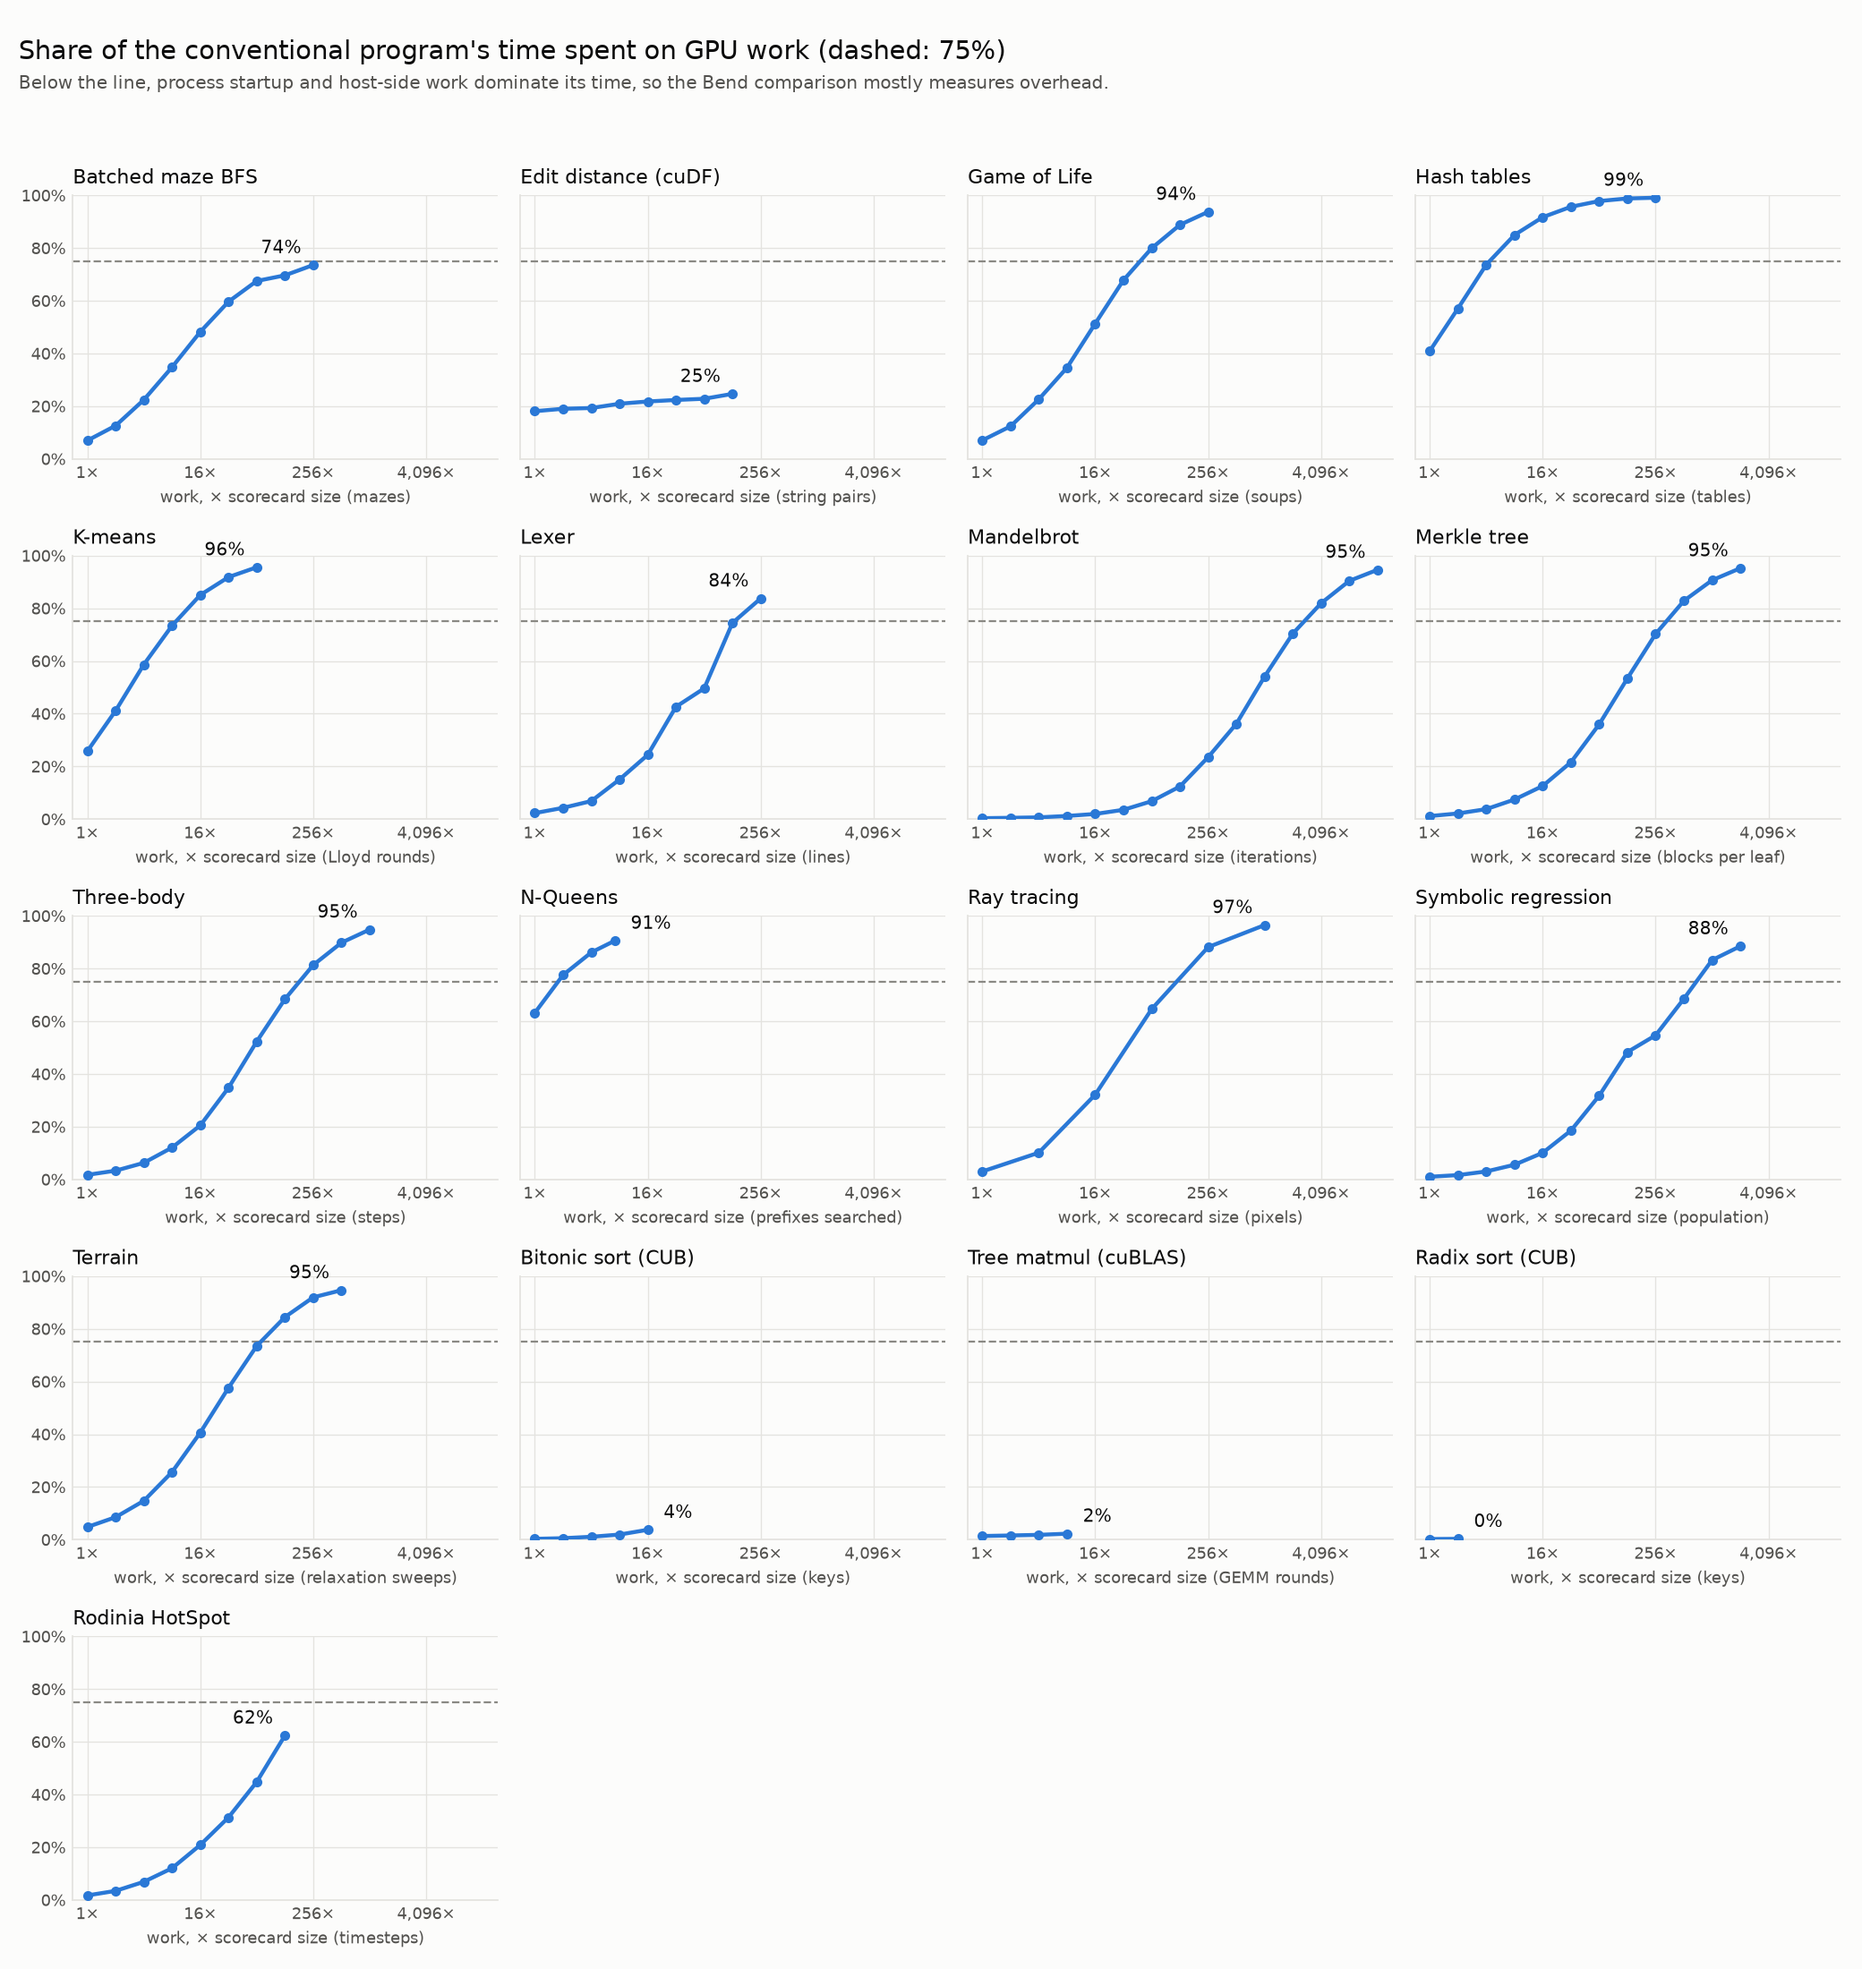
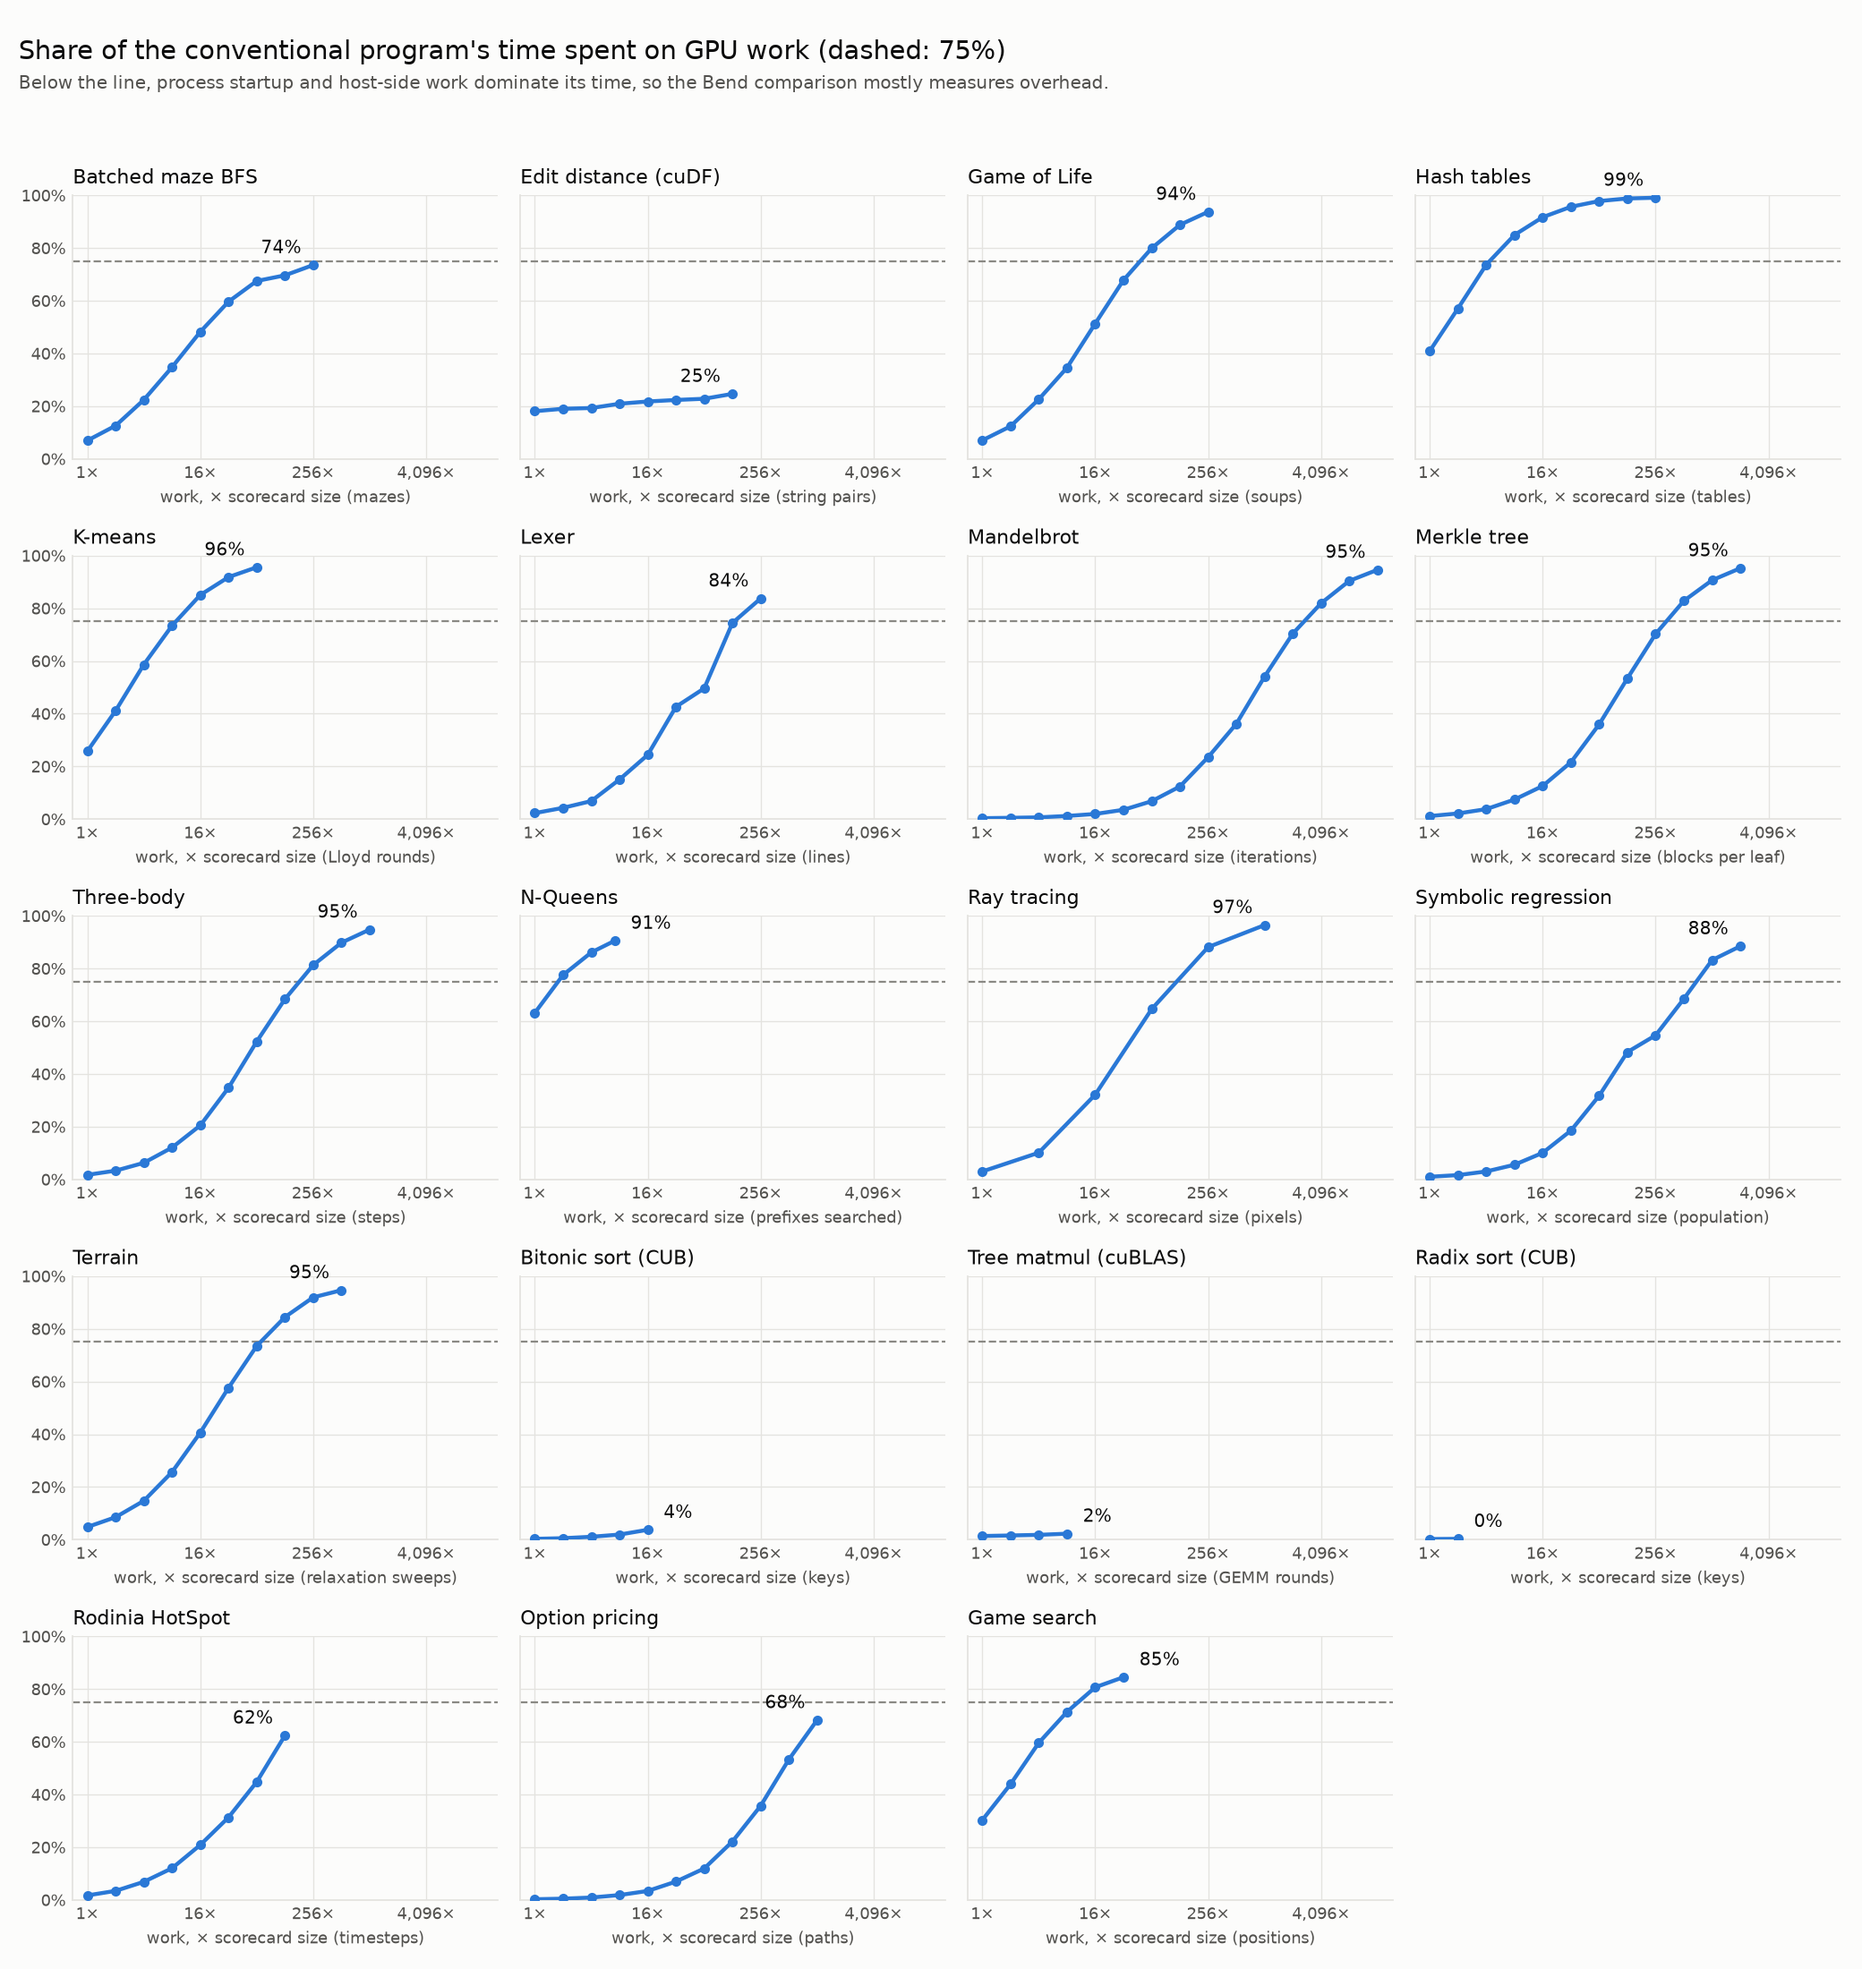
Chart option pricing and game search with the other sweeps

diff --git a/scaling_charts.py b/scaling_charts.py
@@ -31,7 +31,8 @@ WORKLOADS = [
     ('raytrace', 'Ray tracing', 'pixels'), ('symreg', 'Symbolic regression', 'population'),
     ('terrain', 'Terrain', 'relaxation sweeps'), ('tree-bitonic', 'Bitonic sort (CUB)', 'keys'),
     ('tree-matmul', 'Tree matmul (cuBLAS)', 'GEMM rounds'), ('tree-radix', 'Radix sort (CUB)', 'keys'),
-    ('hotspot', 'Rodinia HotSpot', 'timesteps'),
+    ('hotspot', 'Rodinia HotSpot', 'timesteps'), ('pricing', 'Option pricing', 'paths'),
+    ('game-search', 'Game search', 'positions'),
 ]
 ROWS = math.ceil(len(WORKLOADS) / 4)
 LOWER_BOUND = {'tree-bitonic', 'tree-matmul', 'tree-radix'}
